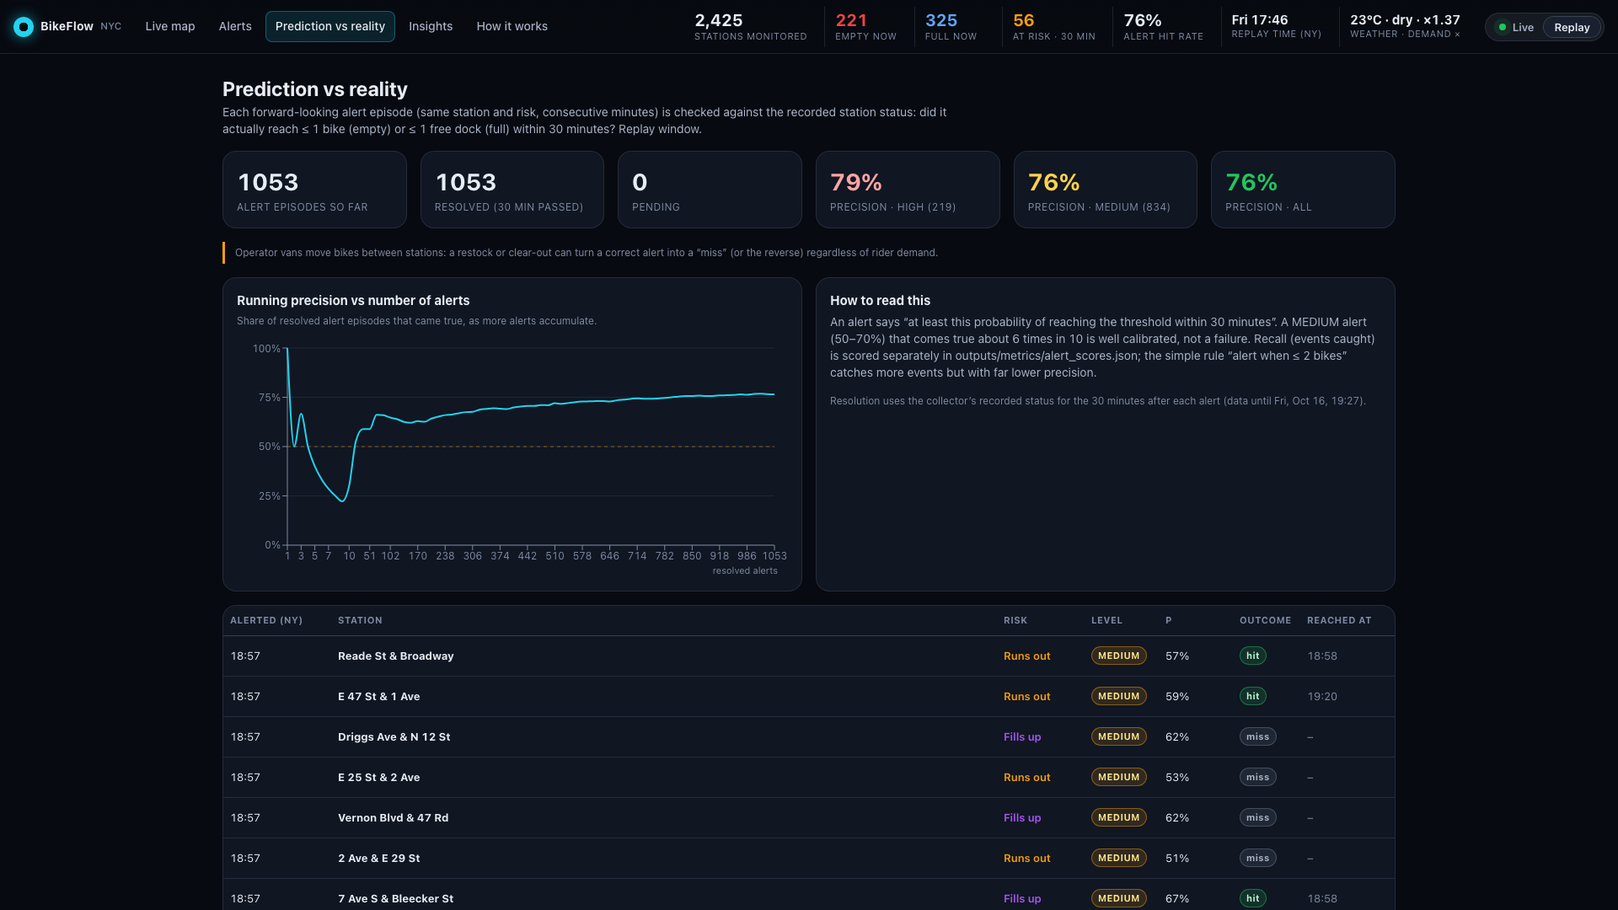
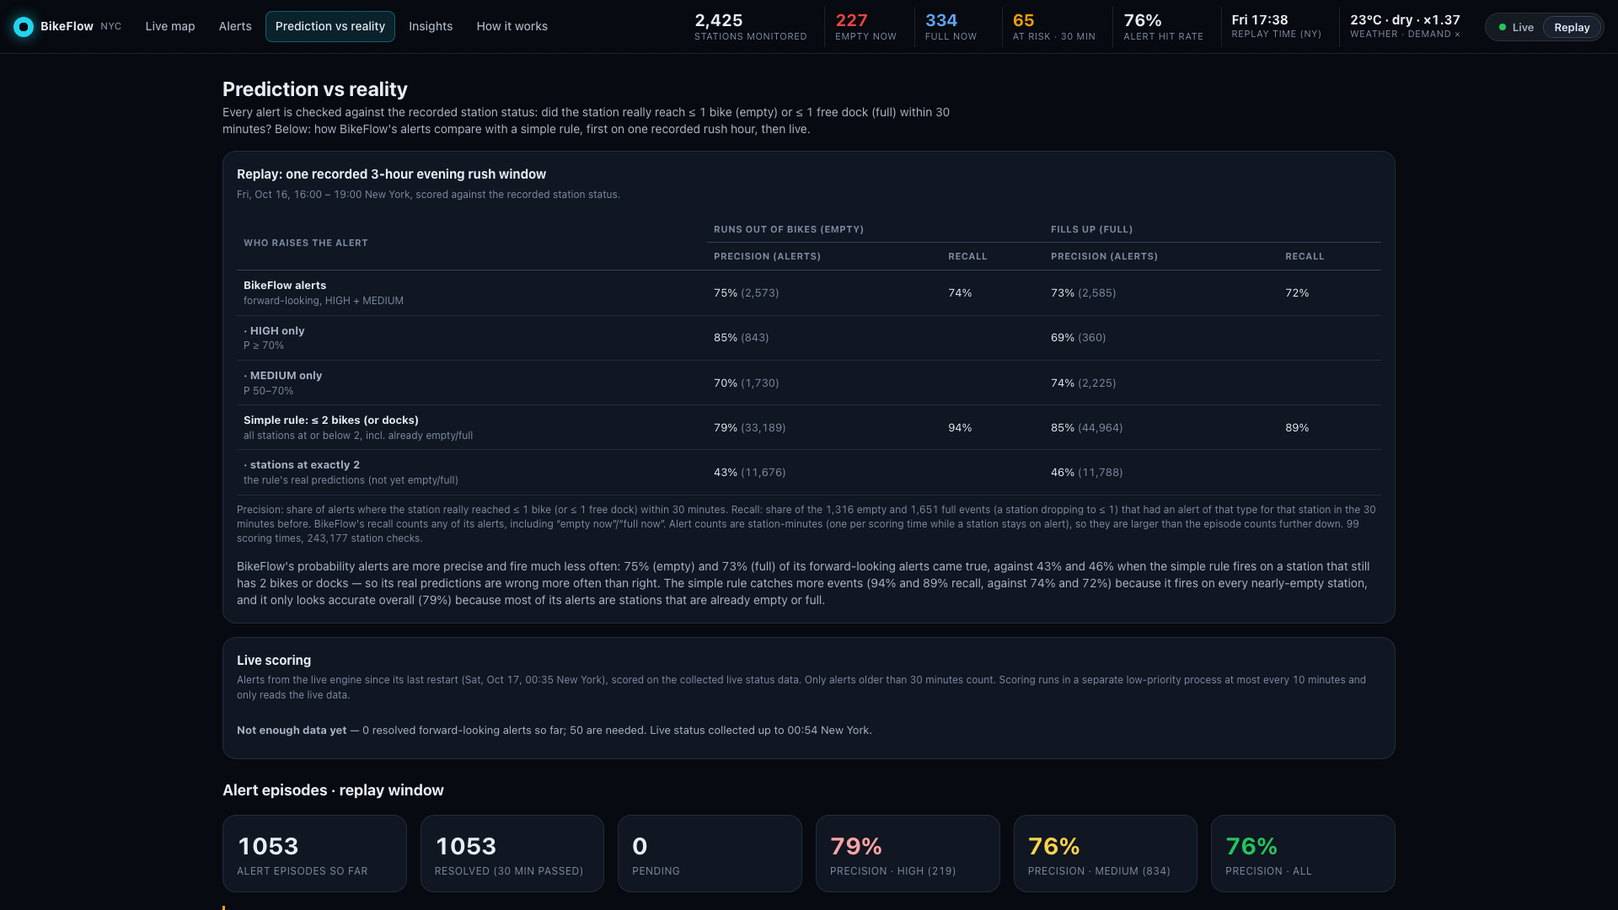
Prediction vs reality: baseline, recall, replay vs live scoring
- Replay section, labelled "one recorded 3-hour evening rush window": precision and recall
  of BikeFlow's forward-looking alerts vs the simple "<= 2 bikes (or docks)" rule, scored
  on exactly that window (outputs/metrics/replay_alert_scores.json), with a trade-off
  sentence generated from the numbers.
- Live scoring section: alerts since the live engine's last restart, scored by
  src/score_alerts.py in a separate low-priority process (read-only on data/live, at most
  every 10 minutes); "not enough data yet" below 50 resolved alerts.
- src/score_alerts.py: --since / --since-restart (also limits how much status is loaded).
- GET /api/scores; updated screenshots for the page.

diff --git a/frontend/src/pages/Reality.jsx b/frontend/src/pages/Reality.jsx
@@ -1,10 +1,87 @@
 import { CartesianGrid, Line, LineChart, ReferenceLine, ResponsiveContainer, Tooltip, XAxis, YAxis } from "recharts";
 import VirtualList from "../components/VirtualList";
 import { useData } from "../lib/data";
+import { usePoll } from "../lib/hooks";
 import { useMode } from "../lib/mode";
 import { STATUS, nyDateTime, nyTime, pct } from "../lib/format";
 
 const COLS = "120px minmax(200px, 2fr) 96px 80px 80px 72px 96px";
+
+const p0 = (x) => (x === null || x === undefined ? "–" : `${Math.round(x * 100)}%`);
+const n0 = (x) => (x === null || x === undefined ? "–" : x.toLocaleString("en-US"));
+
+/** Model alerts vs the "<= 2 bikes (or docks)" rule, precision and recall (src/score_alerts.py logic). */
+function ScoreTable({ d }) {
+  const row = (label, sub, e, f, dim) => (
+    <tr className={dim ? "base" : ""}>
+      <td><b>{label}</b>{sub && <div className="dim" style={{ fontSize: 12 }}>{sub}</div>}</td>
+      <td>{p0(e.p)} <span className="dim">({n0(e.n)})</span></td><td>{e.r === undefined ? "" : p0(e.r)}</td>
+      <td>{p0(f.p)} <span className="dim">({n0(f.n)})</span></td><td>{f.r === undefined ? "" : p0(f.r)}</td>
+    </tr>
+  );
+  const E = d.empty, F = d.full;
+  return (
+    <div style={{ overflowX: "auto" }}>
+      <table className="t">
+        <thead>
+          <tr><th rowSpan={2}>Who raises the alert</th><th colSpan={2}>Runs out of bikes (empty)</th><th colSpan={2}>Fills up (full)</th></tr>
+          <tr><th>Precision (alerts)</th><th>Recall</th><th>Precision (alerts)</th><th>Recall</th></tr>
+        </thead>
+        <tbody>
+          {row("BikeFlow alerts", "forward-looking, HIGH + MEDIUM",
+               { p: E.model_risk_all.precision, n: E.model_risk_all.alerts, r: E.model_recall },
+               { p: F.model_risk_all.precision, n: F.model_risk_all.alerts, r: F.model_recall })}
+          {row("· HIGH only", "P ≥ 70%", { p: E.model_high.precision, n: E.model_high.alerts }, { p: F.model_high.precision, n: F.model_high.alerts }, true)}
+          {row("· MEDIUM only", "P 50–70%", { p: E.model_medium.precision, n: E.model_medium.alerts }, { p: F.model_medium.precision, n: F.model_medium.alerts }, true)}
+          {row("Simple rule: ≤ 2 bikes (or docks)", "all stations at or below 2, incl. already empty/full",
+               { p: E.baseline_all.precision, n: E.baseline_all.alerts, r: E.baseline_recall },
+               { p: F.baseline_all.precision, n: F.baseline_all.alerts, r: F.baseline_recall })}
+          {row("· stations at exactly 2", "the rule's real predictions (not yet empty/full)",
+               { p: E.baseline_exactly_2.precision, n: E.baseline_exactly_2.alerts }, { p: F.baseline_exactly_2.precision, n: F.baseline_exactly_2.alerts }, true)}
+        </tbody>
+      </table>
+      <p className="dim" style={{ fontSize: 12, margin: "8px 0 0" }}>
+        Precision: share of alerts where the station really reached ≤ 1 bike (or ≤ 1 free dock) within 30 minutes. Recall: share of the
+        {" "}{n0(E.events)} empty and {n0(F.events)} full events (a station dropping to ≤ 1) that had an alert of that type for that station in the 30 minutes before.
+        BikeFlow's recall counts any of its alerts, including “empty now”/“full now”. Alert counts are station-minutes (one per scoring time while a
+        station stays on alert), so they are larger than the episode counts further down. {n0(d.evaluation_times)} scoring times, {n0(d.station_times)} station checks.
+      </p>
+    </div>
+  );
+}
+
+function tradeOff(d) {
+  const E = d.empty, F = d.full;
+  return `BikeFlow's probability alerts are more precise and fire much less often: ${p0(E.model_risk_all.precision)} (empty) and ${p0(F.model_risk_all.precision)} (full) of its forward-looking alerts came true, ` +
+    `against ${p0(E.baseline_exactly_2.precision)} and ${p0(F.baseline_exactly_2.precision)} when the simple rule fires on a station that still has 2 bikes or docks — so its real predictions are wrong more often than right. ` +
+    `The simple rule catches more events (${p0(E.baseline_recall)} and ${p0(F.baseline_recall)} recall, against ${p0(E.model_recall)} and ${p0(F.model_recall)}) because it fires on every nearly-empty station, ` +
+    `and it only looks accurate overall (${p0(E.baseline_all.precision)}) because most of its alerts are stations that are already empty or full.`;
+}
+
+function ScoringSections() {
+  const replay = usePoll("scores", { source: "replay" }, { interval: 0 }).data;
+  const live = usePoll("scores", { source: "live" }, { interval: 60_000 }).data;
+  return (
+    <>
+      <div className="card">
+        <h3>Replay: one recorded 3-hour evening rush window</h3>
+        <p className="sub">{replay?.window?.start ? `${nyDateTime(replay.window.start)} – ${nyTime(replay.window.end)} New York, scored against the recorded station status.` : "…"}</p>
+        {replay?.empty ? <><ScoreTable d={replay} /><p className="muted" style={{ marginBottom: 0 }}>{tradeOff(replay)}</p></>
+          : <div className="empty-state">{replay ? "No replay scores yet (run scripts/make_replay.sh)." : "Loading…"}</div>}
+      </div>
+      <div className="card">
+        <h3>Live scoring</h3>
+        <p className="sub">Alerts from the live engine since its last restart{live?.since ? ` (${nyDateTime(live.since)} New York)` : ""}, scored on the collected live status data.
+          Only alerts older than 30 minutes count. Scoring runs in a separate low-priority process at most every 10 minutes and only reads the live data.</p>
+        {live?.enough ? <><ScoreTable d={live} /><p className="muted" style={{ marginBottom: 0 }}>{tradeOff(live)}</p></>
+          : <div className="empty-state" style={{ textAlign: "left", padding: "8px 0" }}>
+              <b>Not enough data yet</b> — {n0(live?.resolved_risk_alerts ?? 0)} resolved forward-looking alerts so far; {live?.min_resolved ?? 50} are needed.
+              {live?.computing ? " Scoring is running now." : ""} {live?.data_end ? `Live status collected up to ${nyTime(live.data_end)} New York.` : ""}
+            </div>}
+      </div>
+    </>
+  );
+}
 
 export default function Reality() {
   const { resolved } = useData();
@@ -16,9 +93,11 @@ export default function Reality() {
     <div className="page"><div className="page-inner">
       <div>
         <h1>Prediction vs reality</h1>
-        <p className="lede">Each forward-looking alert episode (same station and risk, consecutive minutes) is checked against the recorded
-          station status: did it actually reach ≤ 1 bike (empty) or ≤ 1 free dock (full) within 30 minutes? {source === "replay" ? "Replay window." : "Live: last 24 hours."}</p>
+        <p className="lede">Every alert is checked against the recorded station status: did the station really reach ≤ 1 bike (empty) or ≤ 1 free dock
+          (full) within 30 minutes? Below: how BikeFlow's alerts compare with a simple rule, first on one recorded rush hour, then live.</p>
       </div>
+      <ScoringSections />
+      <h2 style={{ margin: "8px 0 0", fontSize: 18 }}>Alert episodes · {source === "replay" ? "replay window" : "live, last 24 hours"}</h2>
       <div className="cards-row">
         <div className="metric"><div className="v">{s?.alerts_so_far ?? "–"}</div><div className="l">Alert episodes so far</div></div>
         <div className="metric"><div className="v">{s?.resolved ?? "–"}</div><div className="l">Resolved (30 min passed)</div></div>
@@ -50,8 +129,8 @@ export default function Reality() {
         <div className="card">
           <h3>How to read this</h3>
           <p className="muted" style={{ marginTop: 0 }}>An alert says “at least this probability of reaching the threshold within 30 minutes”. A MEDIUM alert (50–70%) that
-            comes true about 6 times in 10 is well calibrated, not a failure. Recall (events caught) is scored separately in
-            <span className="mono"> outputs/metrics/alert_scores.json</span>; the simple rule “alert when ≤ 2 bikes” catches more events but with far lower precision.</p>
+            comes true about 6 times in 10 is well calibrated, not a failure. An <b>episode</b> is one station staying on alert for consecutive minutes, counted once.
+            For recall and the comparison with the simple “≤ 2 bikes (or docks)” rule, see the tables above.</p>
           <p className="dim" style={{ fontSize: 12 }}>Resolution uses the collector’s recorded status for the 30 minutes after each alert ({s?.data_end ? `data until ${nyDateTime(s.data_end)}` : "…"}).</p>
         </div>
       </div>

diff --git a/src/score_alerts.py b/src/score_alerts.py
@@ -14,6 +14,11 @@ docks), caught by an alert of that type for that station in the 30 minutes befor
 Baseline (persistence rule): alert "empty" if bikes <= 2 now, "full" if docks <= 2 now,
 scored the same way at the same evaluation times.
 
+--since ISO restricts scoring to alert batches whose data time is at/after that moment (e.g. the
+replay window start); --since-restart uses the live engine's latest restart (the newest batch 0 in
+alert_batches.jsonl). Both also limit how much status data is loaded. Read-only: the inputs are
+never modified, so this can run next to a live engine.
+
     python -m src.score_alerts --alerts-out data/live --status-dir data/live/status
 """
 import argparse
@@ -29,15 +34,31 @@ from src.common import METRICS_DIR, ROOT, write_json
 from src.replay import STALE_S, epoch_s
 
 
-def first_poll_epoch(status_dir: Path) -> int:
-    f = ds.dataset(str(status_dir), format="parquet", partitioning="hive").to_table(columns=["fetched_at"]).to_pandas()
-    return int(epoch_s(f["fetched_at"]).min())
+def _dataset(status_dir: Path):
+    # exclude files being written (hidden temp names) and anything unreadable
+    return ds.dataset(str(status_dir), format="parquet", partitioning="hive", exclude_invalid_files=True)
 
 
-def load_status(status_dir: Path) -> pd.DataFrame:
-    t = ds.dataset(str(status_dir), format="parquet", partitioning="hive").to_table(columns=[
+def _date_filter(lo: int | None):
+    if lo is None:
+        return None
+    first_day = pd.Timestamp(lo, unit="s", tz="UTC").strftime("%Y-%m-%d")
+    return ds.field("date") >= first_day
+
+
+def first_poll_epoch(status_dir: Path, lo: int | None = None) -> int:
+    f = _dataset(status_dir).to_table(columns=["fetched_at"], filter=_date_filter(lo)).to_pandas()
+    e = epoch_s(f["fetched_at"])
+    return int(e[e >= lo].min() if lo is not None and (e >= lo).any() else e.min())
+
+
+def load_status(status_dir: Path, lo: int | None = None) -> pd.DataFrame:
+    """Recorded status; with lo, only reports from lo - 1 h onwards (and their date partitions)."""
+    t = _dataset(status_dir).to_table(columns=[
         "fetched_at", "station_id", "num_bikes_available", "num_docks_available", "is_installed",
-        "is_renting", "is_returning", "last_reported"]).to_pandas()
+        "is_renting", "is_returning", "last_reported"], filter=_date_filter(lo - 3600 if lo else None)).to_pandas()
+    if lo is not None:
+        t = t[t["last_reported"] >= lo - 3600]
     t = t[t["last_reported"] >= epoch_s(t["fetched_at"]) - STALE_S]
     t = t.drop_duplicates(["station_id", "last_reported"]).sort_values(["station_id", "last_reported"])
     t["in_service"] = t["is_installed"] & t["is_renting"] & t["is_returning"]
@@ -85,21 +106,34 @@ def main() -> None:
     ap.add_argument("--status-dir", type=Path, default=ROOT / "data" / "live" / "status")
     ap.add_argument("--horizon-min", type=int, default=30)
     ap.add_argument("--output", type=Path, default=METRICS_DIR / "alert_scores.json")
+    g = ap.add_mutually_exclusive_group()
+    g.add_argument("--since", help="only score alert batches with data time >= this ISO time")
+    g.add_argument("--since-restart", action="store_true", help="only alerts since the engine's latest restart")
     a = ap.parse_args()
     H = a.horizon_min * 60
 
-    status = load_status(a.status_dir)
-    data_end = int(status["last_reported"].max())
     batches = [json.loads(line) for line in open(a.alerts_out / "alert_batches.jsonl")]
+    since = None
+    if a.since:
+        since = int(epoch_s(pd.Series([a.since]))[0])
+    elif a.since_restart:
+        restarts = [b for b in batches if b["batch_id"] == 0]
+        since = int(epoch_s(pd.Series([restarts[-1]["processed_at"]]))[0]) if restarts else None
+    status = load_status(a.status_dir, since)
+    data_end = int(status["last_reported"].max())
     times = np.array(sorted({int(epoch_s(pd.Series([b["as_of"]]))[0]) for b in batches}), dtype=np.int64)
     # Score only times after the first poll (earlier "now"s come from old reports sent first)
     # and at least one horizon before the end of the recording.
-    start = first_poll_epoch(a.status_dir)
+    start = first_poll_epoch(a.status_dir, since)
+    if since is not None:
+        start = max(start, since)
     scored = times[(times >= start) & (times <= data_end - H)]
-    res = {"status_dir": str(a.status_dir), "data_start": None, "data_end": None,
+    res = {"status_dir": str(a.status_dir), "data_start": None, "data_end": None, "since": None,
            "evaluation_times": int(len(scored)), "horizon_min": a.horizon_min}
     iso = lambda x: datetime.fromtimestamp(int(x), timezone.utc).strftime("%Y-%m-%dT%H:%M:%SZ")  # noqa: E731
     res["data_start"], res["data_end"] = iso(start), iso(data_end)
+    res["since"] = iso(since) if since is not None else None
+    res["computed_at"] = iso(pd.Timestamp.now(tz="UTC").timestamp())
     if not len(scored):
         res["note"] = f"no alert batch is {a.horizon_min} min older than the end of the recorded data"
         write_json(a.output, res)
@@ -150,6 +184,8 @@ def main() -> None:
                      "model_caught": caught(mk), "model_recall": round(caught(mk) / n, 4) if n else None,
                      "baseline_caught": caught(bk), "baseline_recall": round(caught(bk) / n, 4) if n else None}
     res.update(model=model, baseline_persistence=base, recall=rec)
+    res["resolved_risk_alerts"] = int(sum(model[k]["risk_alerts"][lvl]["alerts"] for k in ("empty", "full")
+                                         for lvl in ("HIGH", "MEDIUM")))
     write_json(a.output, res)
     print(json.dumps(res, indent=2))
 

diff --git a/backend/app/main.py b/backend/app/main.py
@@ -6,6 +6,9 @@ Every endpoint that shows live data takes ?source=live (default) or ?source=repl
 (scripts/make_replay.sh output); replay endpoints also take ?at=<ISO time> for the time slider.
 """
 import json
+import subprocess
+import sys
+import time
 from typing import Literal
 
 import pandas as pd
@@ -22,6 +25,27 @@ app.add_middleware(CORSMiddleware, allow_origins=["http://localhost:5173", "http
 
 Source = Literal["live", "replay"]
 STALE_AFTER_S = 5 * 60
+LIVE_SCORES = store.ROOT / "data" / "dashboard" / "live_alert_scores.json"
+LIVE_SCORING_PID = store.ROOT / "data" / "dashboard" / "live_scoring.pid"
+LIVE_SCORING_EVERY_S = 10 * 60
+MIN_RESOLVED = 50
+
+
+def _live_scoring_running() -> bool:
+    return store.pid_alive(LIVE_SCORING_PID)
+
+
+def _start_live_scoring() -> None:
+    """Score the live alerts in a separate, low-priority process (never in the API process, never
+    blocking a request). It only reads data/live and writes data/dashboard/live_alert_scores.json."""
+    if _live_scoring_running():
+        return
+    LIVE_SCORES.parent.mkdir(parents=True, exist_ok=True)
+    cmd = ["nice", "-n", "15", sys.executable, "-m", "src.score_alerts", "--since-restart",
+           "--alerts-out", str(store.LIVE), "--status-dir", str(store.LIVE / "status"), "--output", str(LIVE_SCORES)]
+    proc = subprocess.Popen(cmd, cwd=store.ROOT, stdout=subprocess.DEVNULL, stderr=subprocess.DEVNULL,
+                            start_new_session=True)
+    LIVE_SCORING_PID.write_text(str(proc.pid))
 
 
 def _state(source: str, at: str | None):
@@ -57,6 +81,46 @@ def get_resolved(source: Source = "live", limit: int = Query(300, le=2000)):
     return {"source": source, **logic.resolve(source, limit),
             "caveat": "Operator vans move bikes between stations; a restock or clear-out can change the outcome "
                       "of an alert regardless of rider demand."}
+
+
+def _score_summary(s: dict) -> dict:
+    """Model vs simple-rule baseline, precision and recall, from a src/score_alerts.py result."""
+    if not s or not s.get("evaluation_times") or "model" not in s:
+        return {"enough": False, "resolved_risk_alerts": (s or {}).get("resolved_risk_alerts") or 0}
+    out = {"resolved_risk_alerts": s["resolved_risk_alerts"], "evaluation_times": s["evaluation_times"],
+           "station_times": s["station_times_in_service"], "base_rate": s["base_rate"]}
+    for k in ("empty", "full"):
+        m, b, r = s["model"][k], s["baseline_persistence"][k], s["recall"][k]
+        risk = [m["risk_alerts"][lv] for lv in ("HIGH", "MEDIUM")]
+        n, h = sum(x["alerts"] for x in risk), sum(x["hits"] for x in risk)
+        out[k] = {
+            "model_high": m["risk_alerts"]["HIGH"], "model_medium": m["risk_alerts"]["MEDIUM"],
+            "model_risk_all": {"alerts": n, "hits": h, "precision": round(h / n, 4) if n else None},
+            "baseline_all": b["all"], "baseline_exactly_2": b["exactly 2"],
+            "events": r["events"], "model_recall": r["model_recall"], "baseline_recall": r["baseline_recall"],
+        }
+    out["enough"] = out["resolved_risk_alerts"] >= MIN_RESOLVED
+    return out
+
+
+@app.get("/api/scores")
+def get_scores(source: Source = "replay"):
+    """Precision and recall of the alerts vs the "<= 2 bikes (or docks)" rule, src/score_alerts.py logic."""
+    if source == "replay":
+        p = store.METRICS / "replay_alert_scores.json"
+        s = json.loads(p.read_text()) if p.exists() else {}
+        meta = store.replay_meta()
+        return {"source": "replay", "label": "one recorded 3-hour evening rush window",
+                "window": {"start": meta.get("window_start"), "end": meta.get("window_end")},
+                "since": s.get("since"), "data_end": s.get("data_end"), **_score_summary(s)}
+    s = json.loads(LIVE_SCORES.read_text()) if LIVE_SCORES.exists() else {}
+    age = time.time() - store.mtime(LIVE_SCORES) if LIVE_SCORES.exists() else None
+    if age is None or age > LIVE_SCORING_EVERY_S:
+        _start_live_scoring()
+    return {"source": "live", "label": "alerts from the live engine since its last restart",
+            "since": s.get("since"), "data_end": s.get("data_end"), "computed_at": s.get("computed_at"),
+            "computing": _live_scoring_running(), "min_resolved": MIN_RESOLVED,
+            "note": s.get("note"), **_score_summary(s)}
 
 
 @app.get("/api/rebalance")

diff --git a/scripts/dashboard_e2e.py b/scripts/dashboard_e2e.py
@@ -5,10 +5,12 @@ measures map smoothness (frames per second while panning and zooming with every 
 drawn) and the memory of the dashboard next to the running pipeline.
 
 Needs the dashboard running (scripts/start_dashboard.sh).
-    .venv/bin/python scripts/dashboard_e2e.py
+    .venv/bin/python scripts/dashboard_e2e.py                 # everything
+    .venv/bin/python scripts/dashboard_e2e.py --only reality  # just the Prediction vs reality screenshots
 """
 import json
 import subprocess
+import sys
 import time
 from pathlib import Path
 
@@ -50,7 +52,34 @@ def rss_report() -> dict:
     return res
 
 
+def reality_only() -> None:
+    """Screenshots of the Prediction vs reality page (scoring sections + episodes), replay mode."""
+    SHOTS.mkdir(parents=True, exist_ok=True)
+    errors = []
+    with sync_playwright() as p:
+        b = p.chromium.launch()
+        page = b.new_page(viewport={"width": 1920, "height": 1080})
+        page.on("console", lambda m: m.type == "error" and errors.append(m.text))
+        page.on("pageerror", lambda e: errors.append(str(e)))
+        page.goto(URL + "/reality")
+        page.click("text=Replay")
+        page.wait_for_selector("table.t", timeout=30000)
+        page.wait_for_selector(".recharts-line", timeout=30000)
+        page.wait_for_timeout(1500)
+        page.screenshot(path=str(SHOTS / "05_prediction_vs_reality.png"))
+        y = page.evaluate("() => document.querySelector('h2').getBoundingClientRect().top - 80")
+        page.evaluate(f"() => {{ document.querySelector('.page').scrollTo(0, {y}); }}")
+        page.wait_for_timeout(800)
+        page.screenshot(path=str(SHOTS / "05b_prediction_vs_reality_episodes.png"))
+        b.close()
+    print(json.dumps({"screenshots": ["docs/screenshots/05_prediction_vs_reality.png",
+                                      "docs/screenshots/05b_prediction_vs_reality_episodes.png"],
+                      "console_errors": errors}, indent=2))
+
+
 def main() -> None:
+    if sys.argv[1:3] == ["--only", "reality"]:
+        return reality_only()
     SHOTS.mkdir(parents=True, exist_ok=True)
     errors, report = [], {"screenshots": [], "pages": {}}
     with sync_playwright() as p:

diff --git a/docs/dashboard_notes.md b/docs/dashboard_notes.md
@@ -27,7 +27,7 @@ scripts/make_replay.sh         # (re)build the replay/demo data, see below
 |---|---|
 | **Live map** | All ~2,500 stations on one Leaflet canvas, coloured by status (red empty now, blue full now, orange risk of empty, purple risk of full, grey-green ok); size grows with probability; pulsing rings only on HIGH alerts. Floating panels: filters + search (left), ranked forward-looking alerts (right, click = fly to station), city pulse (bottom left), alert ticker (bottom), replay controls (bottom centre, Replay mode). Click a station for the drawer: bikes/docks gauge, 3-hour sparkline from the recorded status, expected departures/arrivals for the next 30 min, P(empty)/P(full) with a plain sentence, weather factor, suggested move. |
 | **Alerts** | Ranked table of forward-looking alerts (virtualized) with probability bars, and greedy rebalancing suggestions ("Move N bikes from A to B, X m away"). |
-| **Prediction vs reality** | Alert episodes older than 30 minutes with hit/miss from the recorded status, running precision for HIGH and MEDIUM, and precision against the number of alerts. Caveat: operator vans change outcomes. |
+| **Prediction vs reality** | (1) **Replay scoring**, "one recorded 3-hour evening rush window": precision and recall of BikeFlow's forward-looking alerts vs the simple rule "≤ 2 bikes (or docks)", from `outputs/metrics/replay_alert_scores.json` (exact window, `src/score_alerts.py --since`). (2) **Live scoring**: the live engine's alerts since its last restart, scored by `src/score_alerts.py --since-restart` in a separate low-priority process (at most every 10 min; reads `data/live`, writes `data/dashboard/live_alert_scores.json`); shows "not enough data yet" below 50 resolved alerts. (3) Alert episodes with hit/miss, running precision for HIGH and MEDIUM, precision vs number of alerts. Caveat: operator vans change outcomes. |
 | **Insights** (lazy-loaded) | Daily rides with storm/disruption days marked, monthly rides, weekday vs weekend hourly profile, departures heatmap by hour × weekday, busiest stations, and the Stage 2 / 2b model comparison tables with an honest summary. |
 | **How it works** | Animated architecture diagram (collector → Kafka → Spark Structured Streaming → alerts → API → dashboard, with the batch history and weather feeding Spark) and the alert formula in plain words. |
 
@@ -50,6 +50,7 @@ take `?at=<ISO time>`, which drives the time slider.
 | `GET /api/ticker` | Newest alert episodes (last 3 h) for the ticker. |
 | `GET /api/pulse` | Estimated bikes out on the street per 15 min and per hour: peak docked total in the recording minus docked now, so depots and vans are not counted. |
 | `GET /api/timeline` | Replay batch times and window (for the slider). |
+| `GET /api/scores` | `?source=replay`: the replay window's precision/recall vs the simple rule. `?source=live`: the same for live alerts since the last restart (background scoring, never blocks; `enough=false` below 50 resolved alerts). |
 | `GET /api/insights` | Stage 1/2/2b results from `outputs/metrics/` (+ daily rides, and a weekday × hour heatmap derived from `expected_demand.parquet`). |
 | `GET /api/health` | Last live and replay batch (time, duration, rows), collector last poll and Kafka counters, process status, stale flag. |
 
